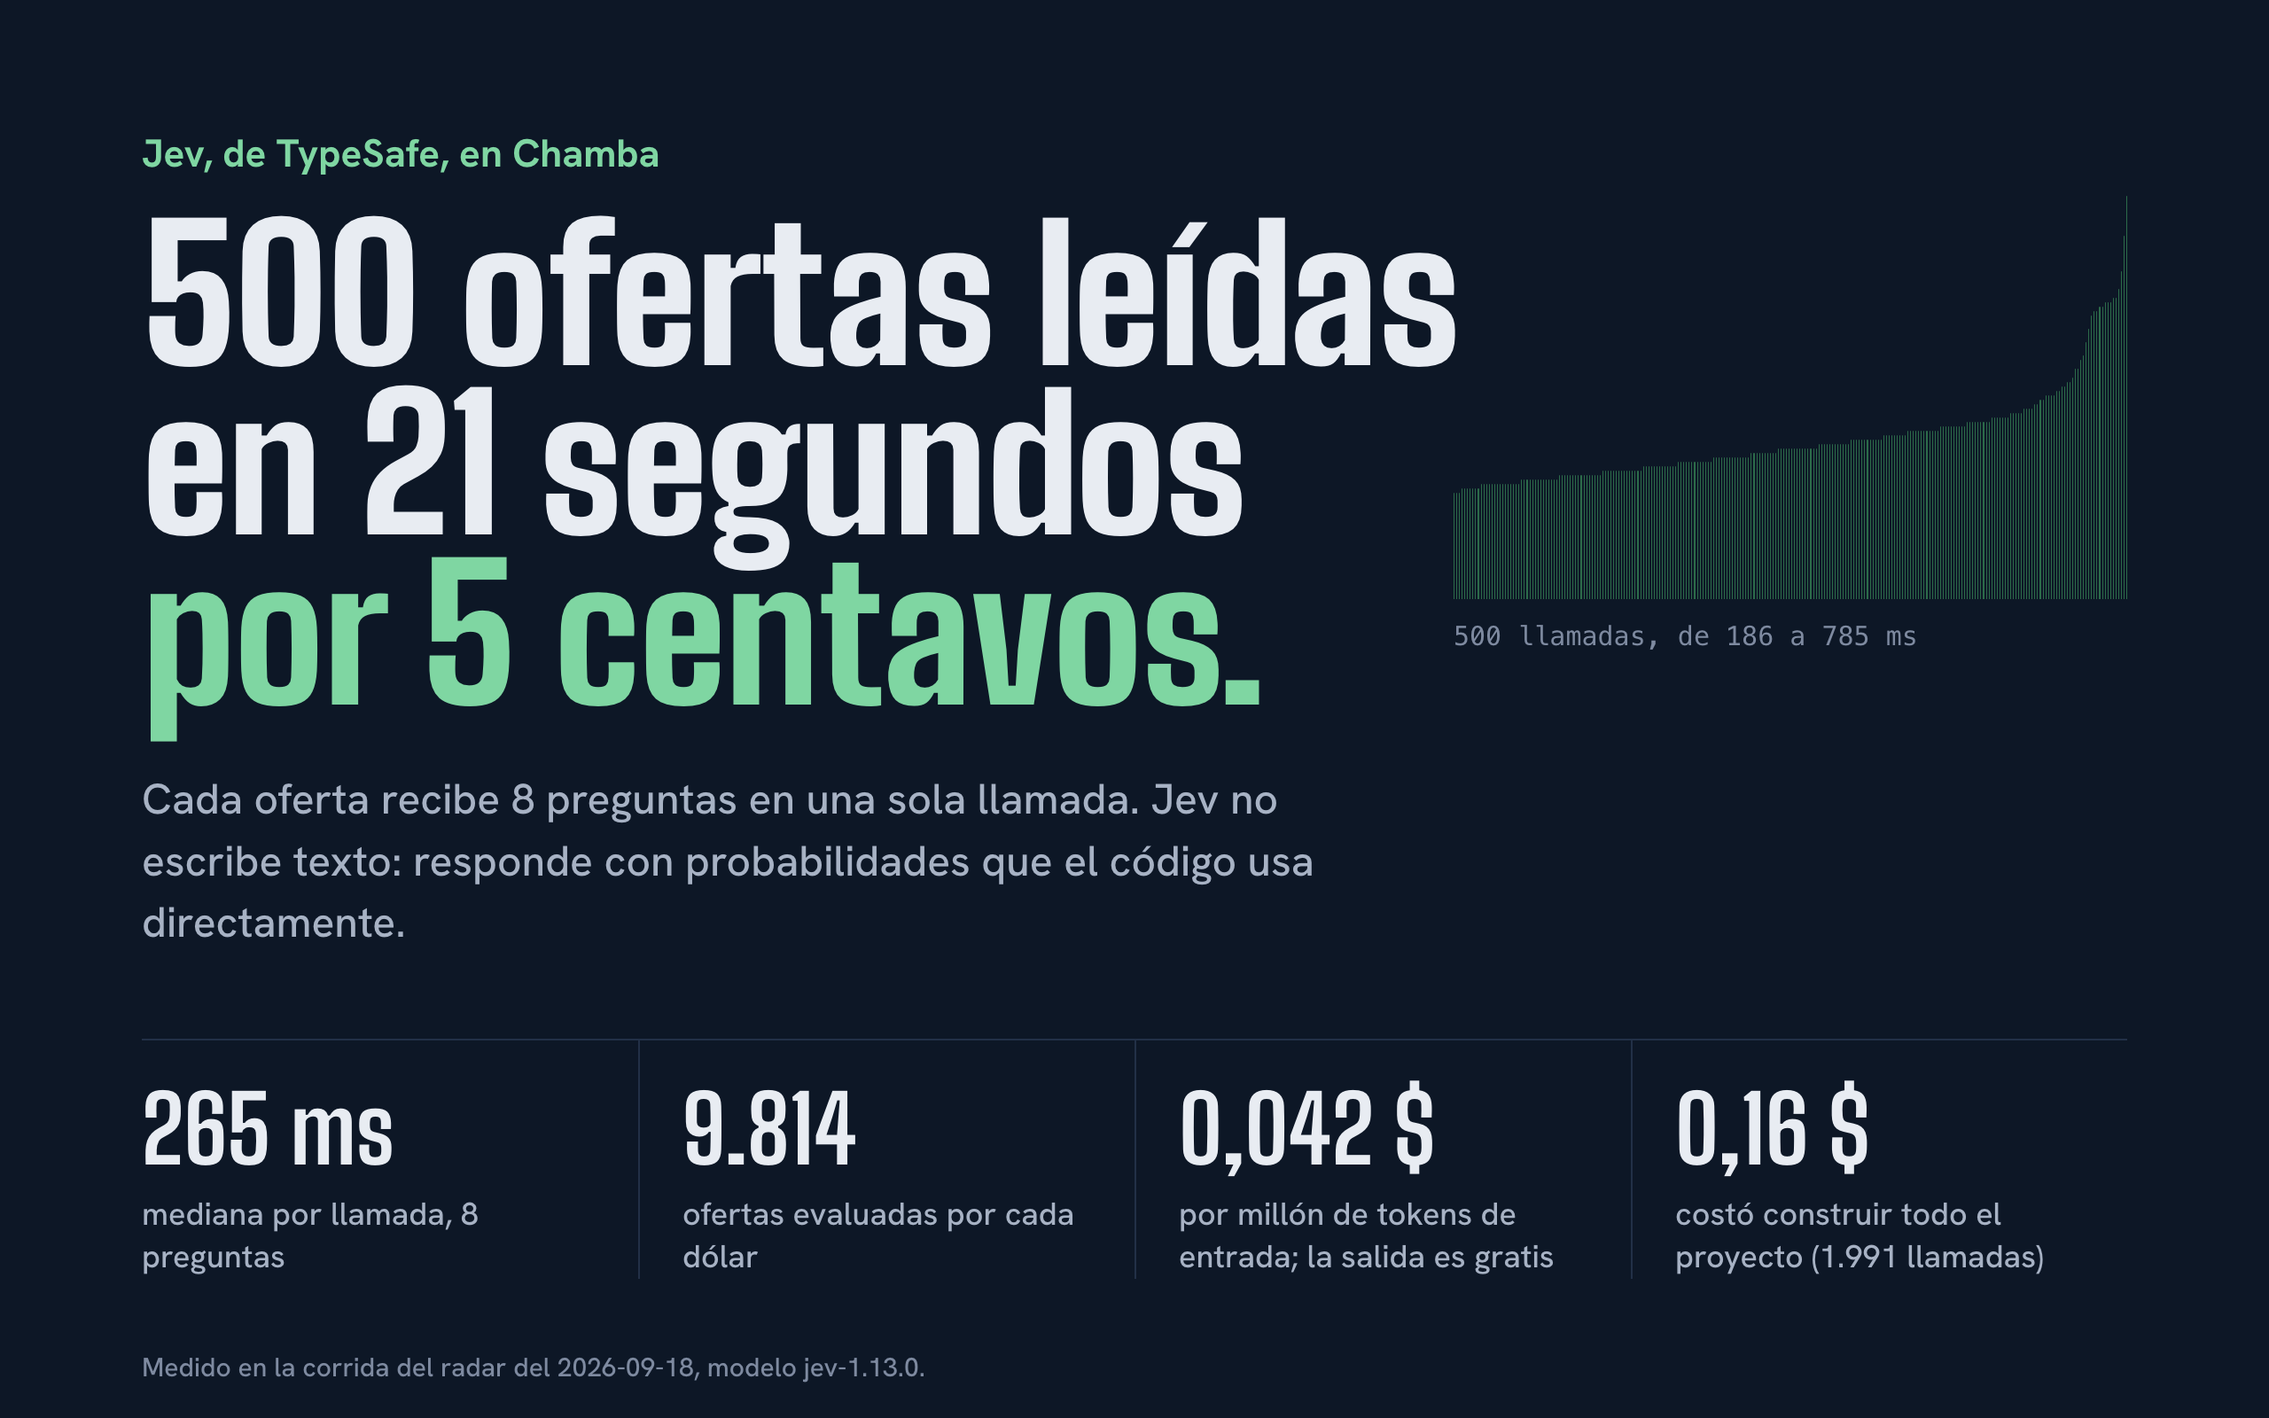
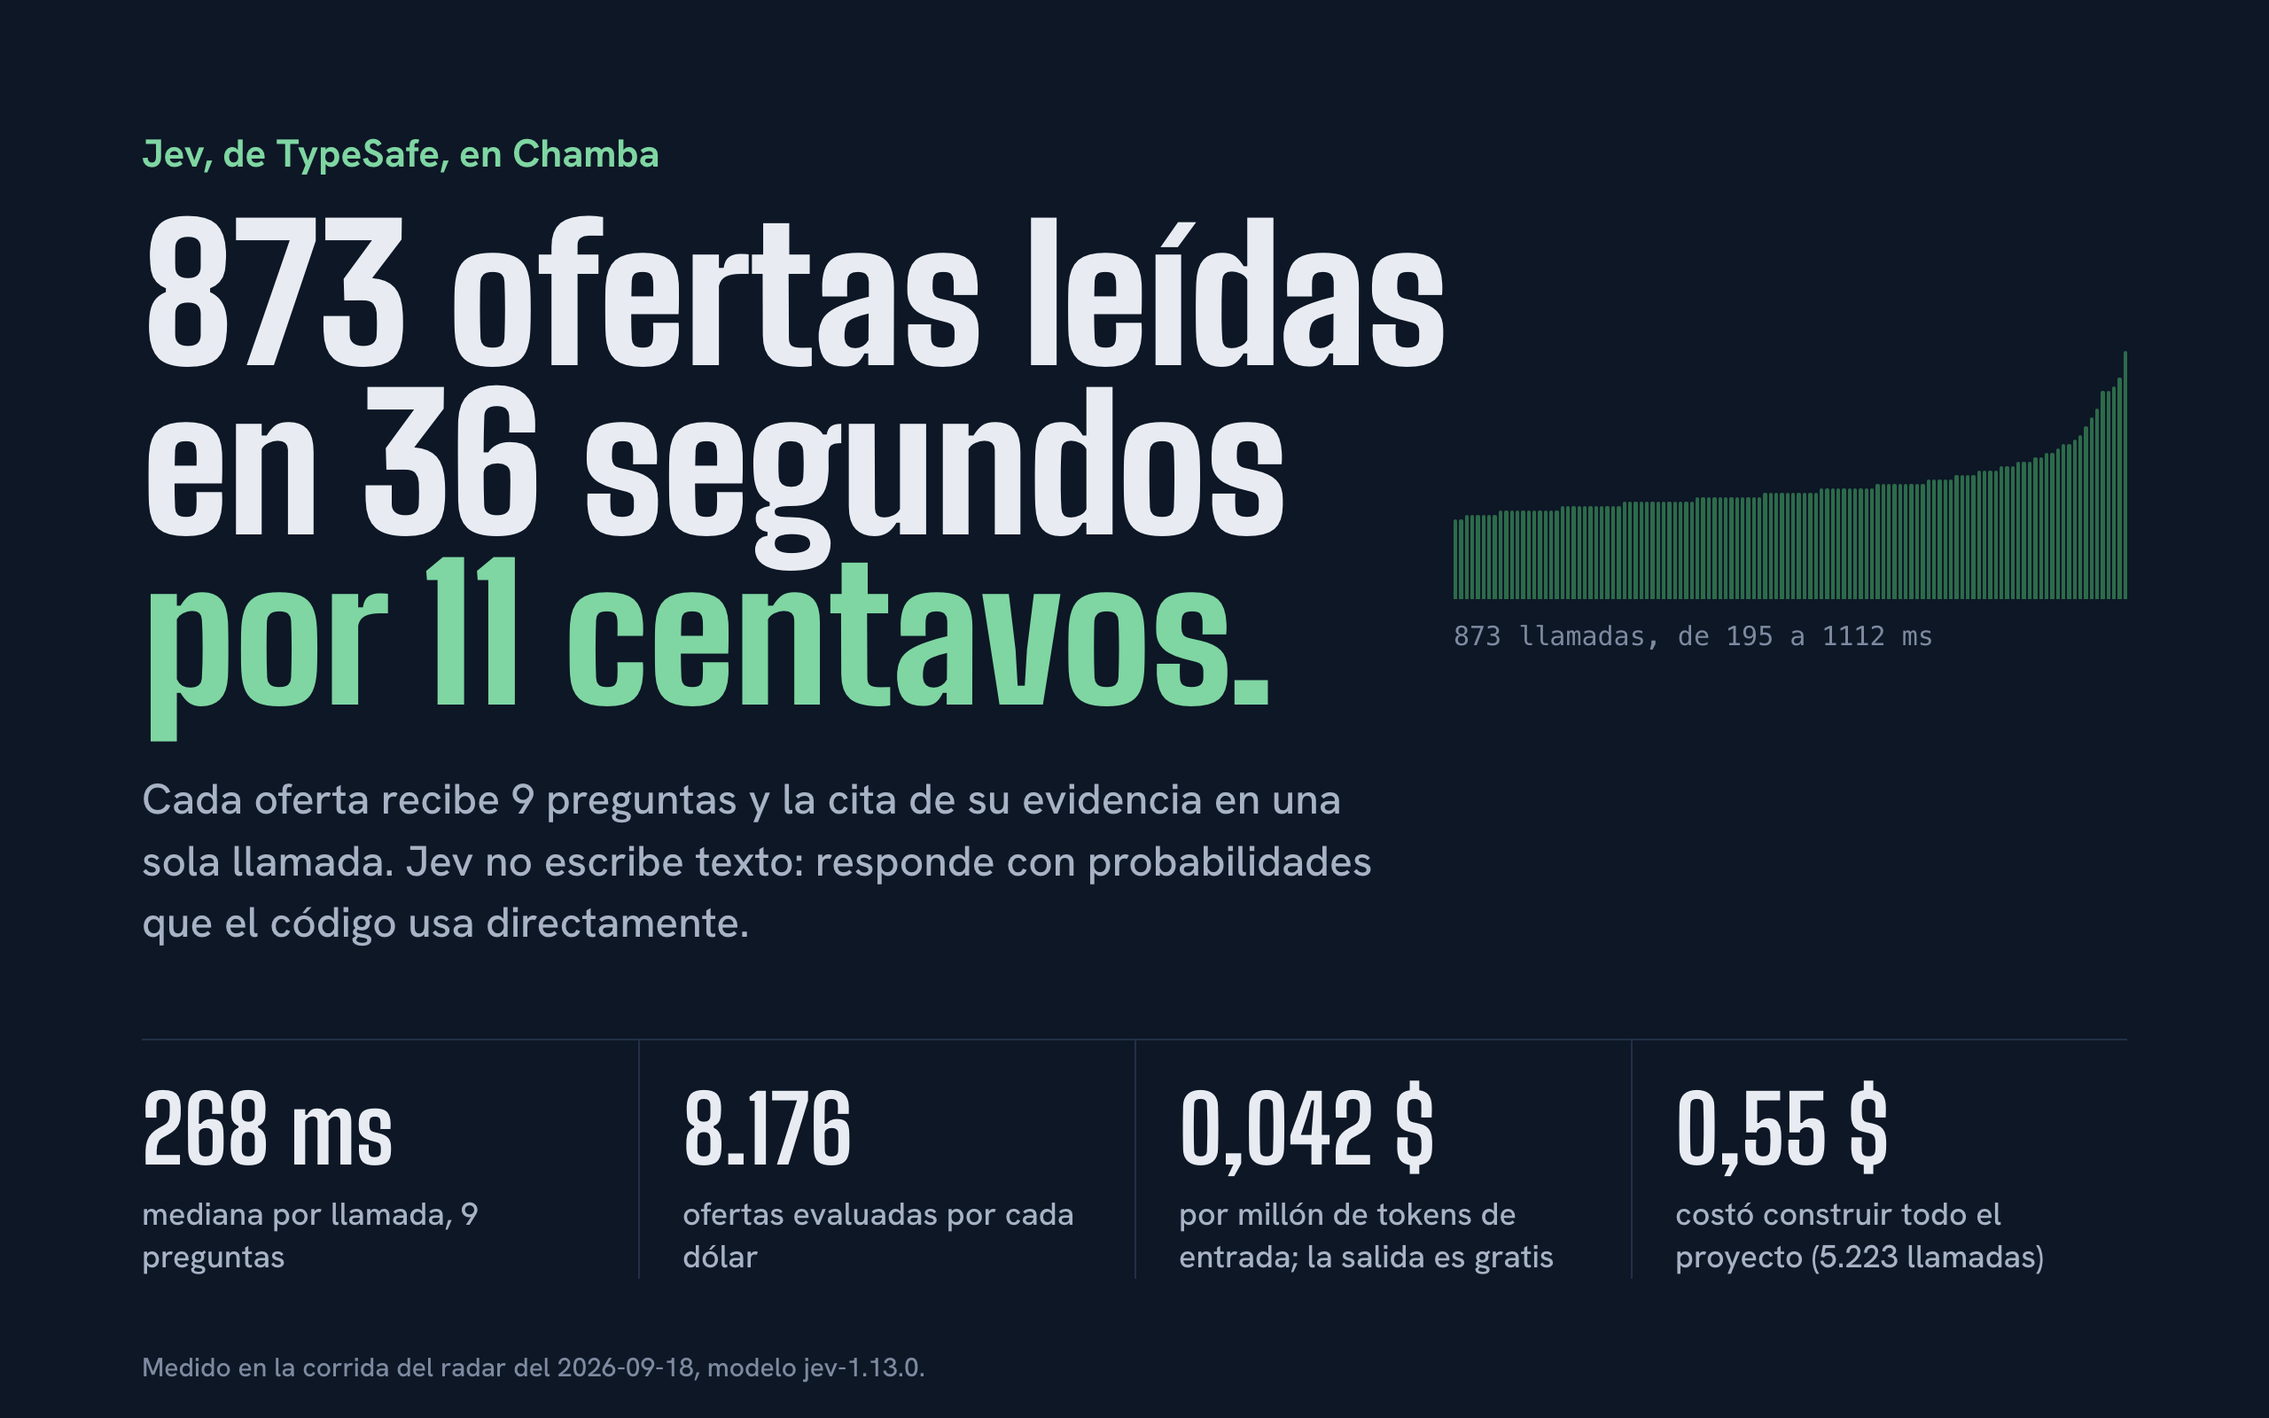
Update READMEs and images for the v6 radar
Both READMEs document version 6 and the corrected numbers from the
published run: 318 of 765 tech jobs accept Venezuela, 10 take
juniors, 873 listings in 36 s for $0.107, $0.55 of Jev in total.
The hero, replay GIF, phone view, preview card, banner and cost
chart are regenerated from that run. The cost chart gains a stage for
the source comparison, and the banner reads the question count from
the code.

diff --git a/scripts/readme-art.ts b/scripts/readme-art.ts
@@ -82,8 +82,8 @@ const STAGES: Stage[] = [
   },
   {
     key: "radar",
-    es: `Radar: ${fullRuns} corridas completas, revisiones y evals`,
-    en: `Radar: ${fullRuns} full runs, reviews and evals`,
+    es: `Radar: ${fullRuns} corridas, revisiones y evals`,
+    en: `Radar: ${fullRuns} runs, reviews and evals`,
     test: (e) => /radar/.test(e.script ?? ""),
   },
 ];
@@ -162,8 +162,12 @@ function banner(lang: Lang) {
           ],
           foot: `Measured on the radar run of ${run.startedAt.slice(0, 10)}, model ${run.model}.`,
         };
-  const bars = latencies
-    .filter((_, i) => i % 2 === 0)
+  // An even sample of the sorted latencies: enough bars to show the curve, few enough to fit.
+  const BARS = 120;
+  const bars = Array.from(
+    { length: BARS },
+    (_, i) => latencies[Math.floor((i / BARS) * latencies.length)]!,
+  )
     .map(
       (ms) => `<i style="height:${Math.max(4, Math.round((ms / latencies.at(-1)!) * 100))}%"></i>`,
     )
@@ -261,7 +265,7 @@ function shoot(name: string, html: string, height: number) {
 
 for (const lang of ["es", "en"] as const) {
   shoot(`jev-${lang}`, banner(lang), 800);
-  shoot(`cost-${lang}`, costChart(lang), 620);
+  shoot(`cost-${lang}`, costChart(lang), 250 + stages.length * 80 + 60);
 }
 console.log(
   `run: ${run.judged} listings, ${seconds.toFixed(1)} s, $${run.costUsd.toFixed(4)}, median ${medianMs} ms · ledger: $${total.toFixed(4)}, ${calls} calls`,

diff --git a/README.es.md b/README.es.md
@@ -9,17 +9,17 @@ ofertas chimbas. Hecho para [r/dev_venezuela](https://www.reddit.com/r/dev_venez
 En vivo: [chimbometro.vercel.app](https://chimbometro.vercel.app)<br>
 Cómo se hizo: [el Laboratorio](https://chimbometro.vercel.app/docs)
 
-![El radar: 342 de 760 empleos remotos de tecnología aceptan a alguien que vive en Venezuela](docs/images/radar.jpg)
+![El radar: 318 de 765 empleos remotos de tecnología aceptan a alguien que vive en Venezuela](docs/images/radar.jpg)
 
 ## Por qué Jev
 
-![874 ofertas leídas en 34 segundos por 11 centavos](docs/images/jev-es.png)
+![873 ofertas leídas en 36 segundos por 11 centavos](docs/images/jev-es.png)
 
 Jev no escribe texto. Responde preguntas con tipo (sí o no, escoge una opción, puntúa en una
 escala) y devuelve probabilidades. Eso cambia cuánto cuesta y cómo se comporta una función con IA:
 
 - **Tan rápido que cabe en un request.** Una llamada del radar le hace 9 preguntas a una oferta y
-  responde en 275 ms (mediana de 874 llamadas). Una del Chimbómetro hace 20 y tarda menos de un
+  responde en 268 ms (mediana de 873 llamadas). Una del Chimbómetro hace 20 y tarda menos de un
   segundo.
 - **Tan barato que se puede correr sobre todo.** A 0,042 $ por millón de tokens de entrada, y con
   la salida gratis, un dólar alcanza para evaluar unas 8.000 ofertas. La actualización diaria del
@@ -53,7 +53,7 @@ muestra su evidencia y enlaza a la oferta original.
 Cualquiera puede ver una actualización en vivo: la página transmite cada URL que pide el servidor
 y cada oferta que Jev evalúa, con los tokens y el costo sumando en tiempo real.
 
-![Repetición de una actualización real: 874 ofertas traídas y evaluadas en 34 segundos](docs/images/radar-live.gif)
+![Repetición de una actualización real: 873 ofertas traídas y evaluadas en 36 segundos](docs/images/radar-live.gif)
 
 ### Cómo elegimos las fuentes
 
@@ -73,8 +73,8 @@ aceptan y cuánto cuesta encontrar cada uno.
 | Remotive | 9 | 1 | 0,00141 $ | descartada |
 | Remote OK | 34 | 5 | 0,00210 $ | descartada |
 
-El radar pasó de 86 de 434 empleos de tecnología que aceptan Venezuela a 342 de 760, y de 2
-empleos para juniors a 12. Cada bolsa se consulta como mucho una vez por el intervalo que piden los
+El radar pasó de 86 de 434 empleos de tecnología que aceptan Venezuela a 318 de 765, y de 2
+empleos para juniors a 10. Cada bolsa se consulta como mucho una vez por el intervalo que piden los
 términos de su API.
 
 ### Cómo mejora Jev sobre la marcha
@@ -95,9 +95,15 @@ leer todo con la versión nueva.
 | 3 | La revisión de los 86 aceptados | Posts de "Junior and Senior" quedaban sin nivel; "NAMER, EMEA, APJ" se leía como mundial | 15 |
 | 4 | La comparación de bolsas | "LATAM, USA" y la frase estándar de permiso de trabajo se leían como exclusión; el horario CET casi se escapaba | 19 |
 | 5 | La revisión de juniors | Bolsas que marcaban "expert senior engineers wanted" como entry-level | 20 |
+| 6 | Un usuario abriendo un enlace | A Jev le pasábamos el "Anywhere in the World" de la bolsa y le creía más que al "Remote - United States" del texto | 25 |
 
-Los 20 casos pasan. Uno sigue abierto y documentado: una oferta "LATAM, USA" cuya frase estándar de
-permiso de trabajo la deja apenas por encima del umbral de exclusión (0,51).
+La versión 6 fue un error nuestro, no del modelo: en los empleos que decide la bolsa le pasábamos a
+Jev el campo junto con el texto, así que la revisión independiente no era independiente. Ahora Jev
+lee solo el texto, y una lectura segura (EE. UU., Europa, presencial, una lista de países) anula el
+campo. Salieron 29 empleos que no aceptaban Venezuela, casi todos con la frase que lo prueba.
+
+Los 25 casos pasan. Uno sigue abierto y documentado: una oferta "LATAM, USA" cuya frase estándar de
+permiso de trabajo la deja por encima del umbral de exclusión (0,62).
 
 ### Chimbómetro
 
@@ -130,7 +136,7 @@ en el camino.
 
 ## Cuánto costó construirlo
 
-![Todo el proyecto costó 0,44 $ en Jev](docs/images/cost-es.png)
+![Todo el proyecto costó 0,55 $ en Jev](docs/images/cost-es.png)
 
 Cada llamada a Jev hecha durante el desarrollo está registrada en
 [`ledger/jev-usage.jsonl`](ledger/jev-usage.jsonl): la investigación, cada eval, cada prueba local
@@ -139,11 +145,11 @@ y cada corrida completa del radar. La página del Laboratorio muestra los mismos
 
 | | |
 | --- | --- |
-| Gasto total en Jev | **0,44 $** en 4.325 llamadas y 10,5 millones de tokens de entrada |
+| Gasto total en Jev | **0,55 $** en 5.223 llamadas y 13,1 millones de tokens de entrada |
 | Leer 206 posts del sub (investigación) | 0,014 $ |
 | Comparar ocho bolsas de empleo (518 ofertas) | 0,066 $ |
 | Una medición del Chimbómetro | unos 0,00015 $, 20 preguntas, menos de un segundo |
-| Una corrida completa del radar (874 ofertas, cinco bolsas) | 0,107 $, 34 s |
+| Una corrida completa del radar (873 ofertas, cinco bolsas) | 0,107 $, 36 s |
 | La actualización diaria del radar | solo se evalúan las ofertas nuevas, así que cuesta centavos |
 
 ## Cómo funciona
@@ -162,8 +168,8 @@ cron / visitante ──▶ /api/radar/refresh ──▶ 5 APIs y feeds públicos
 Decisiones que vale la pena conocer:
 
 - **Los datos estructurados los decide el código, y Jev los revisa.** Si la bolsa dice la
-  ubicación o el nivel en un campo, decide el código. La pregunta de exclusión de Jev igual se
-  aplica, y un campo "junior" pierde si el texto dice claramente lo contrario: a veces los campos
+  ubicación o el nivel en un campo, decide el código. Jev lee el texto sin el campo, y un campo que
+  dice "anywhere" o "junior" pierde si el texto dice claramente lo contrario: a veces los campos
   son solo un valor por defecto.
 - **Seleccionar, no generar.** La evidencia es una opción entre fragmentos que existen en la
   oferta, así que una cita no se puede inventar.
@@ -189,9 +195,9 @@ En local los límites usan memoria, así que el desarrollo nunca toca datos de p
 
 | Script | Qué hace |
 | --- | --- |
-| `npm run check` | Typecheck, lint y 88 pruebas unitarias |
+| `npm run check` | Typecheck, lint y 89 pruebas unitarias |
 | `npm run jev:eval` | Veredictos del Chimbómetro con ofertas de ejemplo |
-| `npm run jev:eval-radar` | Juicios del radar con 20 ofertas difíciles, casi todas errores reales |
+| `npm run jev:eval-radar` | Juicios del radar con 25 ofertas difíciles, casi todas errores reales |
 | `npm run jev:sources` | Compara las bolsas candidatas con Jev |
 | `npm run radar:refresh` | Una actualización completa en memoria, guardada para revisar; `-- --publish` la publica |
 | `npm run readme:art` | Vuelve a dibujar las imágenes del README desde el ledger y la última corrida |

diff --git a/README.md b/README.md
@@ -9,18 +9,18 @@ offers. Built for [r/dev_venezuela](https://www.reddit.com/r/dev_venezuela/) on 
 Live: [chimbometro.vercel.app](https://chimbometro.vercel.app)<br>
 How it was built: [the Laboratorio](https://chimbometro.vercel.app/docs)
 
-![The job radar: 342 of 760 remote tech jobs accept someone living in Venezuela](docs/images/radar.jpg)
+![The job radar: 318 of 765 remote tech jobs accept someone living in Venezuela](docs/images/radar.jpg)
 
 ## Why Jev
 
-![874 job listings read in 34 seconds for 11 cents](docs/images/jev-en.png)
+![873 job listings read in 36 seconds for 11 cents](docs/images/jev-en.png)
 
 Jev is a System One model: instead of writing text, it answers typed questions (yes or no, pick
 one, score on a scale) with probabilities. That changes what an AI feature costs and how it
 behaves:
 
 - **Fast enough to run in a request.** A radar call asks 9 questions about one listing and returns
-  in 275 ms (median of 874 calls). A Chimbómetro call asks 20 and still finishes in under a second.
+  in 268 ms (median of 873 calls). A Chimbómetro call asks 20 and still finishes in under a second.
 - **Cheap enough to run on everything.** At $0.042 per million input tokens and free output, one
   dollar judges about 8,000 job listings. The daily radar update costs a few cents.
 - **Easy to check.** Answers are numbers and choices, so code applies the thresholds and shows
@@ -52,7 +52,7 @@ shows its evidence and links to the original.
 Anyone can watch an update live: the page streams every URL the server requests and every
 listing Jev judges, with tokens and cost adding up in real time.
 
-![A replay of a real radar update: 874 listings fetched and judged in 34 seconds](docs/images/radar-live.gif)
+![A replay of a real radar update: 873 listings fetched and judged in 36 seconds](docs/images/radar-live.gif)
 
 ### How the sources were chosen
 
@@ -72,8 +72,8 @@ what each one costs to find.
 | Remotive | 9 | 1 | $0.00141 | dropped |
 | Remote OK | 34 | 5 | $0.00210 | dropped |
 
-The radar went from 86 of 434 tech jobs that accept Venezuela to 342 of 760, and from 2 jobs open
-to juniors to 12. Every board is fetched at most once per the interval its API terms ask for.
+The radar went from 86 of 434 tech jobs that accept Venezuela to 318 of 765, and from 2 jobs open
+to juniors to 10. Every board is fetched at most once per the interval its API terms ask for.
 
 ### How Jev gets better
 
@@ -92,9 +92,15 @@ everything with the new version.
 | 3 | Auditing the 86 accepted jobs | "Junior and Senior" posts counted as unclear; "NAMER, EMEA, APJ" read as worldwide | 15 |
 | 4 | Comparing boards | "LATAM, USA" and standard work-authorization text read as exclusions; CET-only hours barely caught | 19 |
 | 5 | Reviewing the juniors | Boards tagged "expert senior engineers wanted" as entry-level | 20 |
+| 6 | A user opening a link | Jev was shown the board's "Anywhere in the World" and believed it over "Remote - United States" in the text | 25 |
 
-All 20 cases pass. One is still open and documented: a "LATAM, USA" listing whose standard
-authorization line keeps it just over the exclusion threshold (0.51).
+Version 6 was our mistake, not the model's: for board-decided jobs we passed the board's field to
+Jev along with the text, so the independent check was not independent. Now Jev reads only the
+text, and a confident reading of it (US, Europe, on-site, a country list) overrules the field. 29
+jobs that did not accept Venezuela left the radar, almost all with the sentence that proves it.
+
+All 25 cases pass. One is still open and documented: a "LATAM, USA" listing whose standard
+authorization line keeps it over the exclusion threshold (0.62).
 
 ### Chimbómetro
 
@@ -125,7 +131,7 @@ protocol, security, latency and cost charts, and the mistakes made along the way
 
 ## What it cost to build
 
-![The whole project cost $0.44 in Jev](docs/images/cost-en.png)
+![The whole project cost $0.55 in Jev](docs/images/cost-en.png)
 
 Every Jev call made while building the project is recorded in
 [`ledger/jev-usage.jsonl`](ledger/jev-usage.jsonl): the research, every eval, every local test
@@ -134,11 +140,11 @@ the charts above from the ledger and the last radar run.
 
 | | |
 | --- | --- |
-| Total Jev spend | **$0.44** across 4,325 calls and 10.5M input tokens |
+| Total Jev spend | **$0.55** across 5,223 calls and 13.1M input tokens |
 | Reading 206 subreddit posts (research) | $0.014 |
 | Comparing eight job boards (518 listings) | $0.066 |
 | One Chimbómetro measurement | about $0.00015, 20 questions, under a second |
-| A full radar run (874 listings, five boards) | $0.107, 34 s |
+| A full radar run (873 listings, five boards) | $0.107, 36 s |
 | A daily radar update | only new listings are judged, so it costs cents |
 
 ## How it works
@@ -157,8 +163,8 @@ cron / visitor ──▶ /api/radar/refresh ──▶ 5 public job APIs and feed
 Decisions worth knowing:
 
 - **Structured data is decided in code, and checked by Jev.** When a board states the location or
-  the level in a field, code decides. Jev's exclusion question still applies, and a "junior" field
-  loses when the text clearly says otherwise: fields are sometimes just defaults.
+  the level in a field, code decides. Jev reads the text without the field, and a field saying
+  "anywhere" or "junior" loses when the text clearly says otherwise: fields are sometimes defaults.
 - **Select, don't generate.** Evidence is a choice among fragments that exist in the listing, so a
   citation cannot be invented.
 - **Uncertainty is shown.** Low-confidence location judgments are marked "Por confirmar".
@@ -182,9 +188,9 @@ Locally, rate limits use memory, so development never touches production data. S
 
 | Script | What it does |
 | --- | --- |
-| `npm run check` | Typecheck, lint and 88 unit tests |
+| `npm run check` | Typecheck, lint and 89 unit tests |
 | `npm run jev:eval` | Chimbómetro verdicts on example offers |
-| `npm run jev:eval-radar` | Radar judgments on 20 tricky listings, most of them real mistakes |
+| `npm run jev:eval-radar` | Radar judgments on 25 tricky listings, most of them real mistakes |
 | `npm run jev:sources` | Compare the candidate job boards with Jev |
 | `npm run radar:refresh` | A full radar update into memory, saved for review; `-- --publish` sends it live |
 | `npm run readme:art` | Redraw the README images from the ledger and the last run |
